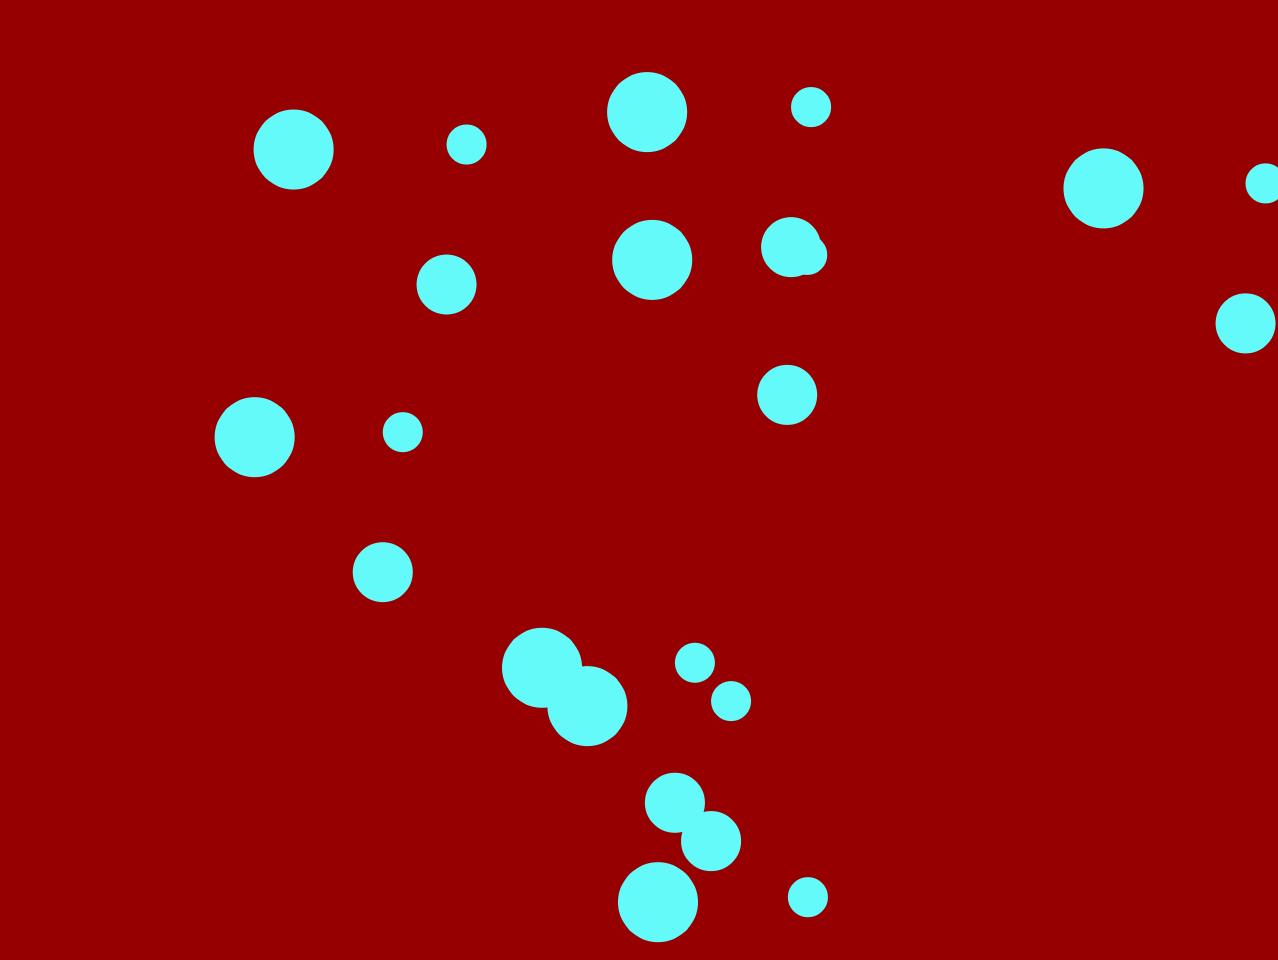
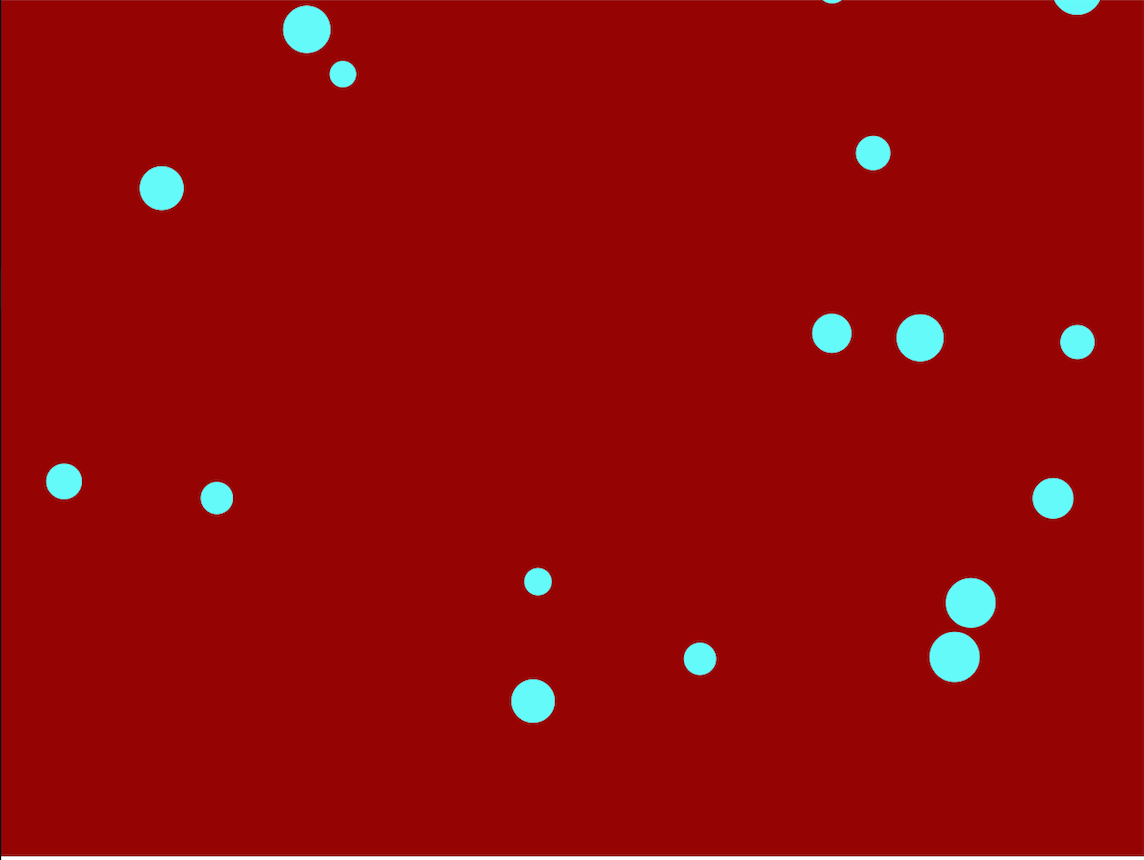
output saved

diff --git a/challenge_4/sketch.js b/challenge_4/sketch.js
@@ -5,7 +5,7 @@ var ballSizes = [];
 function setup() {
 	// create a place to draw
 	createCanvas(640, 480);
-	for (var i = 0; i < 10; i++) {
+	for (var i = 0; i < 20; i++) {
 		xPositions[i] = random(0, 640);
 		yPositions[i] = random(0, 480);
 		ballSizes[i] = random(10, 30);
